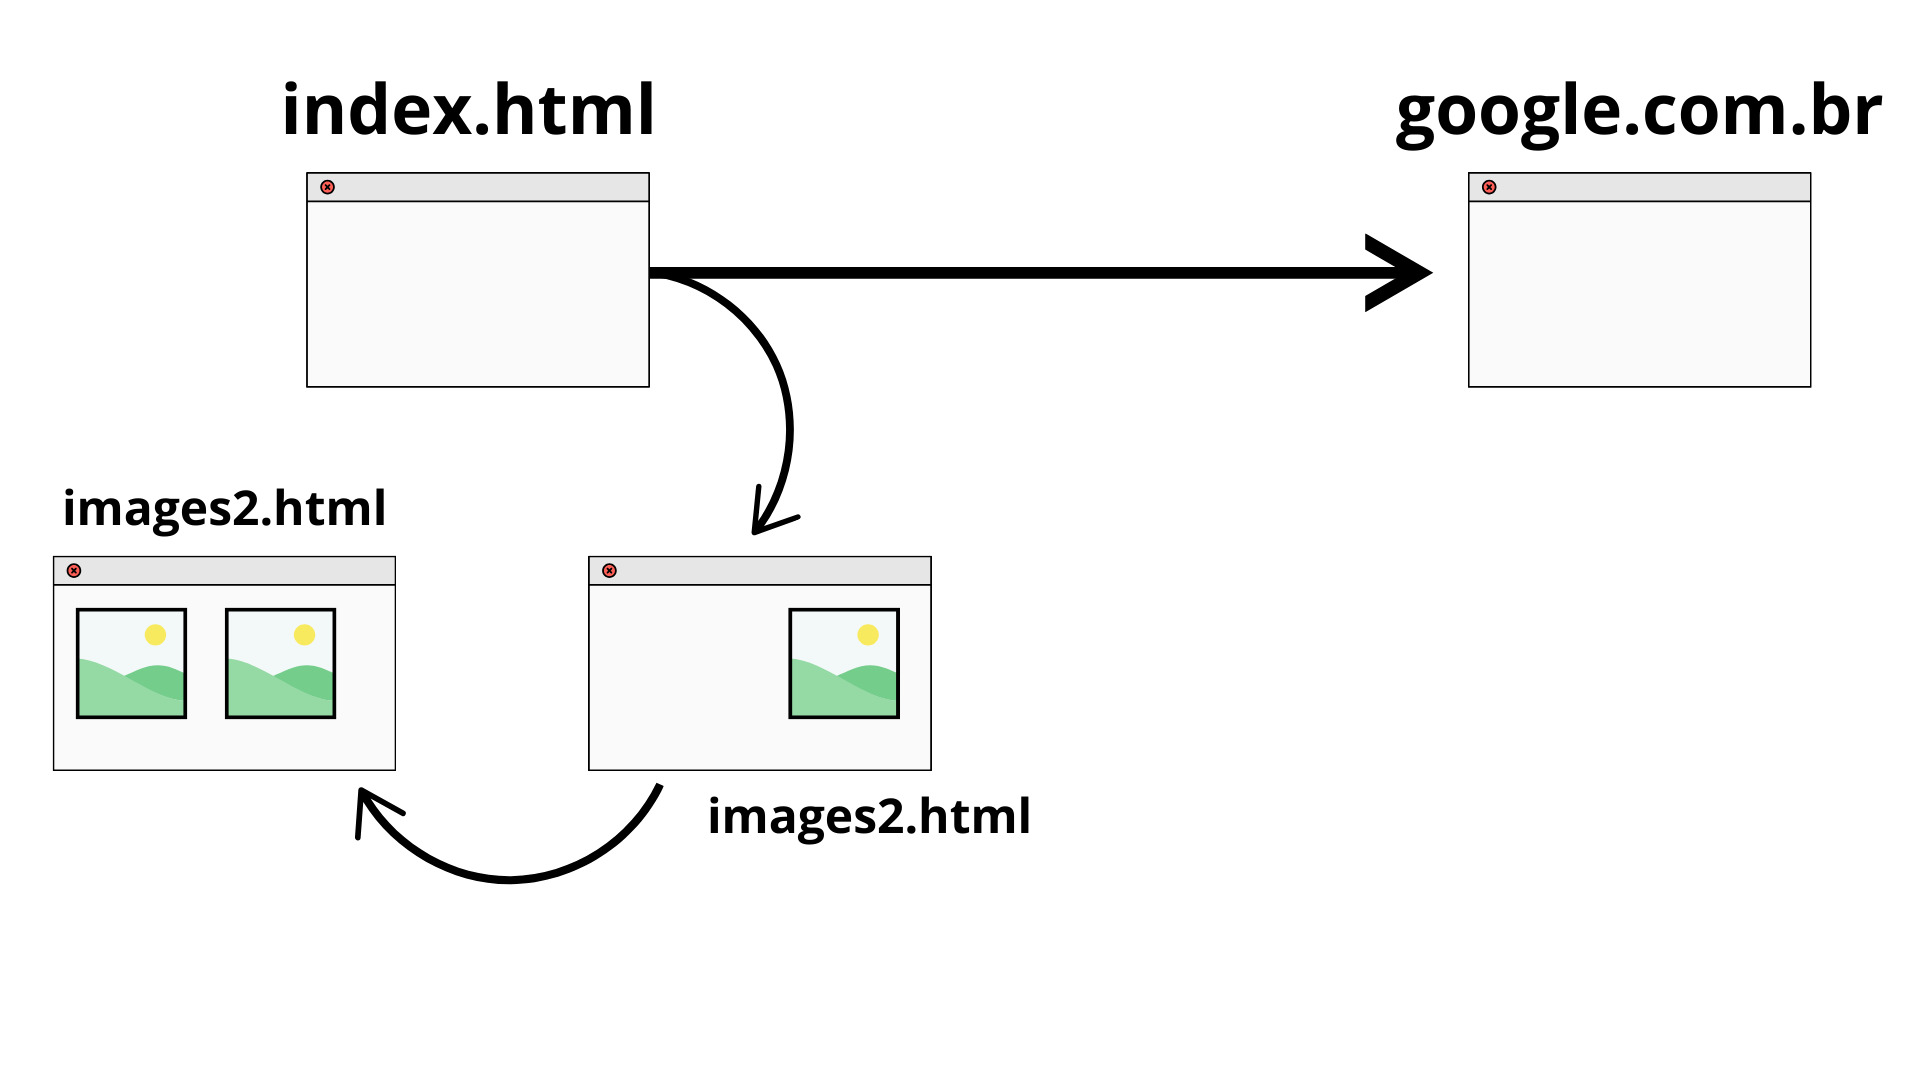
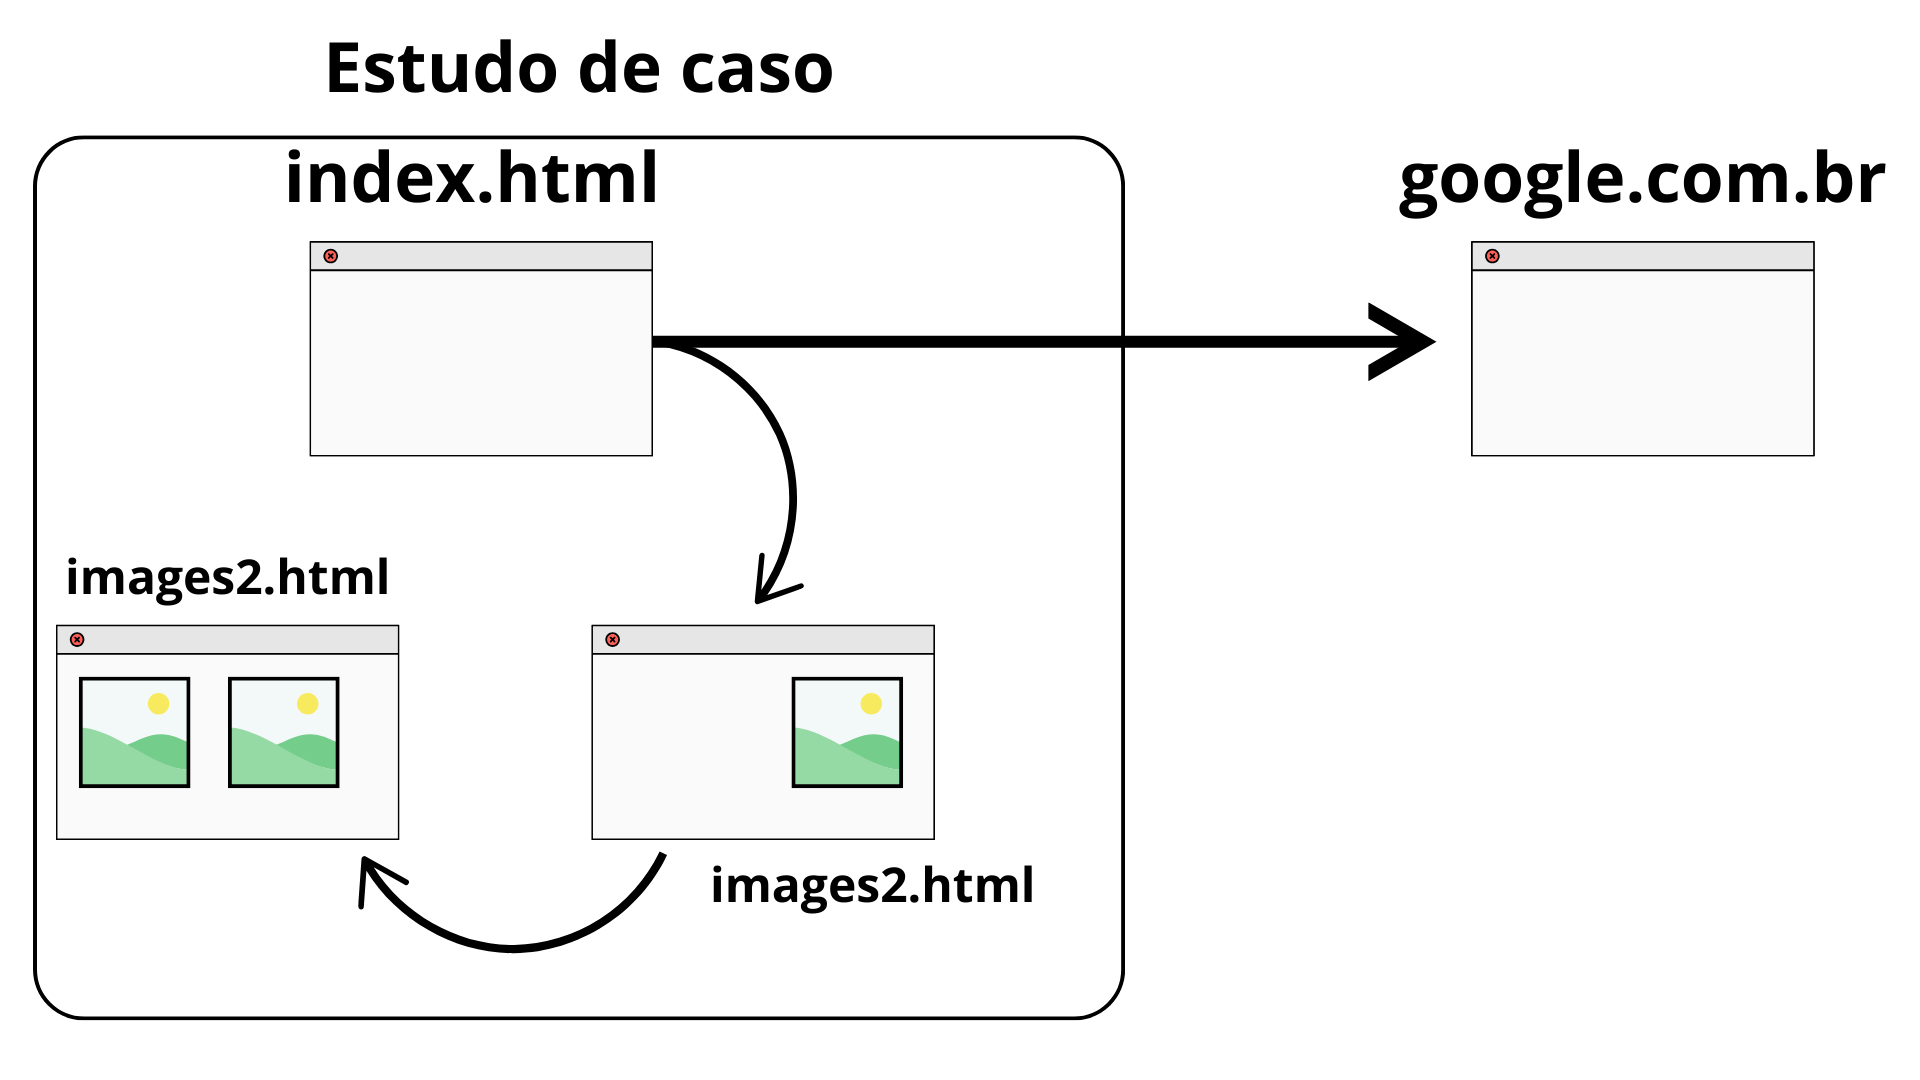
aula: conteúdo sobre links

diff --git a/slides/04_html/exemplo/links/index.html b/slides/04_html/exemplo/links/index.html
@@ -1,0 +1,16 @@
+<!DOCTYPE html>
+<html lang="en">
+<head>
+    <meta charset="UTF-8">
+    <meta name="viewport" content="width=device-width, initial-scale=1.0">
+    <title>Document</title>
+</head>
+<body>
+
+    <h1>Exemplo de uso de âncoras e links</h1>
+
+    <p>Texto com <a>âncora</a> </p>
+    <p>Teto com <a href="">link</a></p>
+    
+</body>
+</html>

diff --git a/slides/04_html/exemplo/links/link1.html b/slides/04_html/exemplo/links/link1.html
@@ -1,0 +1,11 @@
+<!DOCTYPE html>
+<html lang="en">
+<head>
+    <meta charset="UTF-8">
+    <meta name="viewport" content="width=device-width, initial-scale=1.0">
+    <title>Document</title>
+</head>
+<body>
+    <a href="www.google.com">Link para o Google</a>
+</body>
+</html>

diff --git a/slides/04_html/04_html.md b/slides/04_html/04_html.md
@@ -88,22 +88,20 @@ centrarlizar slide
 
 ---
 
-# HTML
+# HTML - Estudo de Caso
 
 <style scoped>
     img {
         margin: -20px 0 0 70px;
-        
     }
 </style>
 
-Vamos considerar o seguinte projeto como contexto da aula: 
 
 ![width:900px](./images/00contexto.png)
 
 
 ---
-# HTML 
+# HTML  - Estudo de Caso
 
 - Neste contexto, vamos ter:
   - Navegação em páginas internas do projeto
@@ -114,9 +112,112 @@ Vamos considerar o seguinte projeto como contexto da aula:
 
 ---
 
-# HTML
+# HTML - Links e âncoras
+
+<style scoped>
+img[alt~="center"] {
+  display: block;
+  margin: 0 auto;
+}
+</style>
+
+- Há um elemento definido pela tag `<a>` que é definido como âncora(*anchor*).
+- A aplicar a tag `<a>` com algum conteúdo, indicamos que estamos definido uma âncora.
 
 
+![width:480px center](./images/01-anchor.png)
 
+
+---
+# HTML - Links e âncoras
+
+<style scoped>
+img[alt~="center"] {
+  display: block;
+  margin: 0 auto;
+}
+</style>
+
+- É possível mudar a semântica do elemento `<a>` através de um de seus atributos: **href**
+
+- Ao adicionar este atributo, estamos criando um *link* que permite realizar navegação entre páginas
+
+![width:530px center](./images/02-anchor.png)
+
+---
+
+# HTML - Links e âncoras
+<style scoped>
+img[alt~="center"] {
+  display: block;
+  margin: 0 auto;
+  border: 1px solid black;
+}
+</style>
+- Até aí tudo bem. Mas na prática qual a diferença?
+- A diferença visual na página é a ilustrada abaixo:
+
+![width:730px center](./images/03-exemplo.png)
+
+---
+
+# HTML - Tipos de links
+
+<style scoped>
+img[alt~="center"] {
+  display: block;
+  margin: 0 auto; 
+  border: 1px solid black;
+}
+</style>
+
+- **Links absolutos   **
+
+![width:800px center](./images/04-absolute.png)
+
+
+---
+# HTML - Tipos de Links
+
+<style scoped>
+img[alt~="center"] {
+  display: block;
+  margin: 0 auto;  
+}
+</style>
+
+- Exemplo de uso de **links absolutos** em uma página:
+
+![width:850px center](./images/05-absoute.png)
+
+---
+# HTML - Tipos de Links
+
+<style scoped>
+img[alt~="center"] {
+  display: block;
+  margin: 0 auto;  
+}
+</style>
+
+- Os **links absolutos** permite navegar de nossas páginas para outras páginas, por exemplo.
+
+![width:1200px center](./images/06-absolute.png)
+
+---
+
+# HTML - Tipos de Links
+
+- **Links relativos**
+  - O contexto dos links relativos é permitir a nevegação dentro do próprio site. 
+- Considere a figura inicial desta aula. 
+  - Há páginas que possuem setas (ligações dentro do próprio site)
+
+---
+
+# HTML - Tipos de Links
+
+
+---
 # Referências
 
